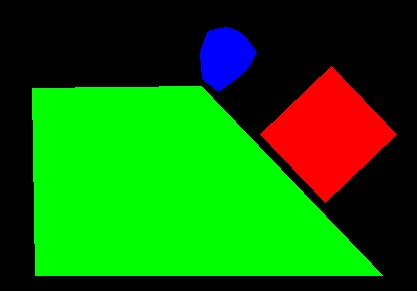
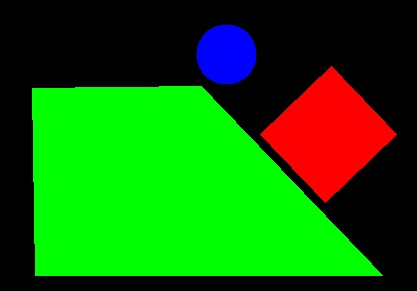
Added single pulley solver

Changed region(s): [[0.4676, 0.0619, 0.6235, 0.3402]]

diff --git a/main.py b/main.py
@@ -7,11 +7,15 @@ from contour_selection import remove_background, remove_small_area, remove_outer
 from block_detection import get_blocks
 from wedge_detection import get_wedge
 from pulley_detection import get_pulley
+from rope import rope
+from block import block
+from solve import solve_rope
+
 ap = argparse.ArgumentParser()
 ap.add_argument('-i','--image', type=str, required=False, help="Input image location")
 args = vars(ap.parse_args())
 
-for image_loc in ['images/Pulley_Ex1.png','images/Pulley_Ex2.png','images/Pulley_Ex3.png','images/Pulley_Ex4.png','images/Pulley_Ex5.png']:
+for image_loc in ['images/Pulley_Ex2.png','images/Pulley_Ex3.png','images/Pulley_Ex4.png','images/Pulley_Ex5.png']:
     if args['image'] is not None:
         image_loc = args['image']
 
@@ -37,24 +41,40 @@ for image_loc in ['images/Pulley_Ex1.png','images/Pulley_Ex2.png','images/Pulley
 
     contours, blocks = get_blocks(img, contour=contours)
     contours, wedge = get_wedge(img=thresh_rev, contour = contours)
-    contours, pulley = get_pulley(img=thresh_rev,contour=contours)
+    pulley = get_pulley(img=img)
 
+    objects = dict()
+    s1 = rope('s1', pulley[0], 'b1', 'b2')
+    b1 = block('b1', 's1', (pulley[0][0],pulley[0][1]), blocks[0], m = 10)
+    b2 = block('b2', 's1', (pulley[0][0],pulley[0][1]), blocks[1], m = 5)
 
-    black_bg = np.zeros(img.shape, dtype=np.uint8)
+    objects['s1'] = s1
+    objects['b1'] = b1
+    objects['b2'] = b2 
+
+    objects = solve_rope('s1', objects = objects)
+    print(s1.a, s1.T)
+    
+    img_copy = img
+    cv2.rectangle(img_copy, (10,30), (200,70),(100,200,100), -1)
+    cv2.putText(img_copy, 'Accelaration: '+str(abs(round(s1.a,2))) + ' m/s^2', (20,45), cv2.FONT_HERSHEY_SIMPLEX, 0.4, (255,0,0), 1, cv2.LINE_AA)
+    cv2.putText(img_copy, 'Tension: '+str(abs(round(s1.T,2)))+ ' N', (20,65), cv2.FONT_HERSHEY_SIMPLEX, 0.4, (255,0,0), 1, cv2.LINE_AA)
+
+    white_bg = np.ones(img.shape, dtype=np.uint8)*255
     
     if wedge is not None:
-        cv2.drawContours(black_bg,[wedge],-1,(0,255,0),1)
-        cv2.fillPoly(black_bg,pts = [wedge], color=(0,255,0))
+        cv2.drawContours(white_bg,[wedge],-1,(0,255,0),1)
+        cv2.fillPoly(white_bg,pts = [wedge], color=(0,255,0))
 
     for i in range(len(blocks)):
         c = blocks[i]
-        cv2.drawContours(black_bg,[c],-1,(0,0,255),1)
-        cv2.fillPoly(black_bg,pts = [c], color=(0,0,255))
+        cv2.drawContours(white_bg,[c],-1,(0,0,255),1)
+        cv2.fillPoly(white_bg,pts = [c], color=(0,0,255))
+        # print(blocks[0])
+    for p in pulley:
+        cv2.circle(white_bg,(p[0],p[1]),p[2],(255,0,0),-1)
 
-
-    cv2.drawContours(black_bg,[pulley],-1,(255,0,0),1)
-    cv2.fillPoly(black_bg,pts = [pulley], color=(255,0,0))
-    cv2.imshow('Image_test',black_bg)
+    cv2.imshow('Image_test',img_copy)
     cv2.waitKey(0)
     cv2.destroyAllWindows()
-    cv2.imwrite('output_'+image_loc[:-4]+'output.jpg', black_bg)
+    cv2.imwrite('output_'+image_loc[:-4]+'_res_output.jpg', img_copy)

diff --git a/block.py b/block.py
@@ -1,0 +1,38 @@
+import math
+
+def dist(p1, p2):
+    return math.sqrt(((p1[0]-p2[0])**2) + ((p1[1]-p2[1])**2))
+
+def compute_theta(pulley_centre, bl_cd):
+    dist_list = []
+    for i in range(4):
+        dist_list.append(dist((bl_cd[i][0],bl_cd[i][1]),pulley_centre))
+
+    s_dist_list = sorted(dist_list)
+
+    point_n = None
+    point_f = None
+    for i in range(4):
+        if dist_list[i] == s_dist_list[0] or dist_list[i] == s_dist_list[1]:
+            point_n = (bl_cd[i][0],bl_cd[i][1])
+            if i > 0:
+                point_f = (bl_cd[i-1][0],bl_cd[i-1][1])
+            else:
+                if dist_list[i+1] == s_dist_list[0] or dist_list[i+1] == s_dist_list[1]:
+                    point_f = (bl_cd[3][0],bl_cd[3][1])
+                else:
+                    point_f = (bl_cd[i+1][0],bl_cd[i+1][1])
+    
+    ret = math.atan(abs(point_n[0]-point_f[0])/(abs(point_n[1]-point_f[1])+0.01))
+    return point_f, point_n, ret
+
+class block:
+    def __init__(self, id, string, pulley_centre,block_coordinates, m = 5):
+        self.id = id
+        self.string = string
+        self.block_cord = block_coordinates
+        self.p1, self.p2, self.theta = compute_theta(pulley_centre = pulley_centre, bl_cd = block_coordinates)
+        self.m = m
+
+if __name__ == '__main__':
+    pass

diff --git a/pulley_detection.py b/pulley_detection.py
@@ -1,20 +1,18 @@
 import numpy as np
 import cv2
 
-def get_pulley(img, contour):
-    max_area = -1
-    max_area_idx = -1
-    for i in range(len(contour)):
-        c = contour[i]
-        if c[0][0][0] != -1:
-            c_area = cv2.contourArea(c)
-            if c_area > max_area:
-                max_area = c_area
-                max_area_idx = i
-    selected_contour = cv2.convexHull(contour[max_area_idx])
-    contour[max_area_idx] = [[[-1, -1]]]
+def get_pulley(img, param1 = 200, param2 = 12, minrad = 20, maxrad = 40):
+    gray_2 = cv2.cvtColor(img, cv2.COLOR_BGR2GRAY)
+    gray_blur = cv2.GaussianBlur(gray_2, (5,5),0)
+    _, thresh_2 = cv2.threshold(gray_blur,200,255,cv2.THRESH_BINARY)
+    pulley = []
 
-    return contour, selected_contour
+    circles = cv2.HoughCircles(thresh_2, cv2.HOUGH_GRADIENT, 1, 20, param1 = param1, param2 = param2, minRadius = minrad, maxRadius = maxrad)
 
-if __name__ == '__main__':
-    pass
+    if circles is not None:
+        circles = np.uint16(np.around(circles))
+        for pt in circles[0,:]:
+            x,y,r = pt[0], pt[1], pt[2]
+            pulley.append((x,y,r))
+    
+    return pulley

diff --git a/solve.py b/solve.py
@@ -1,0 +1,19 @@
+import numpy as np
+import math
+
+def solve_rope(sx, objects):
+    st = objects[sx]
+    e1 = objects[st.ep1]
+    e2 = objects[st.ep2]
+    a1 = [1, -e1.m]
+    a2 = [1, e2.m]
+    b = np.array([e1.m*9.81*math.sin(e1.theta), e2.m*9.81*math.sin(e2.theta)])
+    a = np.array([a1,a2])
+
+    x = np.linalg.solve(a,b)
+
+    st.a = x[1]
+    st.T = x[0]
+
+    return objects
+

diff --git a/rope.py b/rope.py
@@ -1,0 +1,8 @@
+class rope:
+    def __init__(self, id, pulley, end_point1, end_point2):
+        self.id = id
+        self.pulley = [pulley]
+        self.ep1 = end_point1
+        self.ep2 = end_point2
+        self.a = None
+        self.T = None
